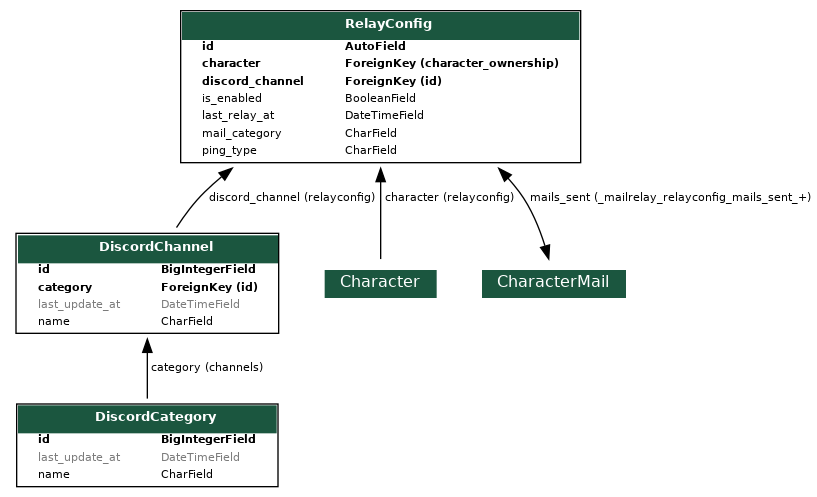
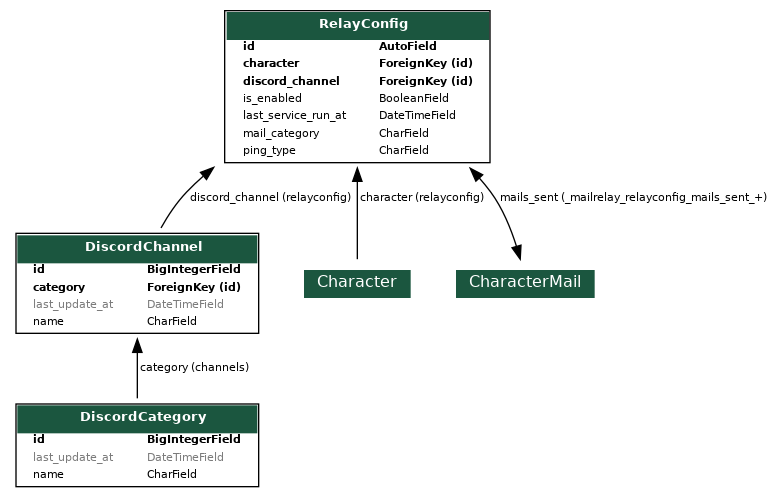
Migrate to PEP 621

diff --git a/mailrelay/__init__.py b/mailrelay/__init__.py
@@ -1,4 +1,6 @@
+"""An app for relaying Eve mails to Discord."""
+
 default_app_config = "mailrelay.apps.MailrelayConfig"
 
-__version__ = "1.0.4"
+__version__ = "1.1.0"
 __title__ = "Mail Relay"

diff --git a/CHANGELOG.md b/CHANGELOG.md
@@ -7,6 +7,12 @@ and this project adheres to [Semantic Versioning](http://semver.org/).
 
 ## [Unreleased] - yyyy-mm-dd
 
+## [1.1.0] - 2023-07-18
+
+### Changed
+
+- Migrated project config to PEP 621
+
 ## [1.0.4] - 2022-07-24
 
 ### Fixed
